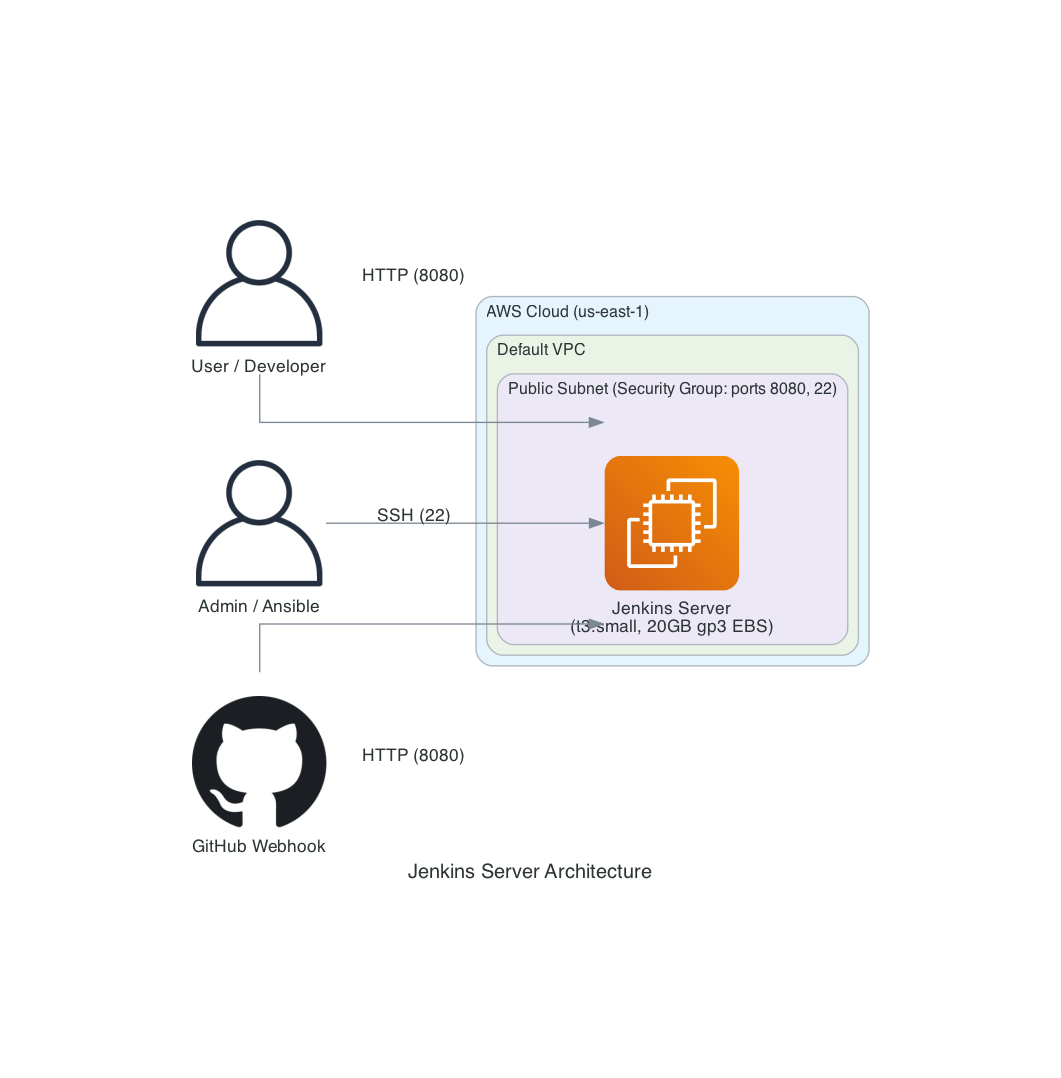
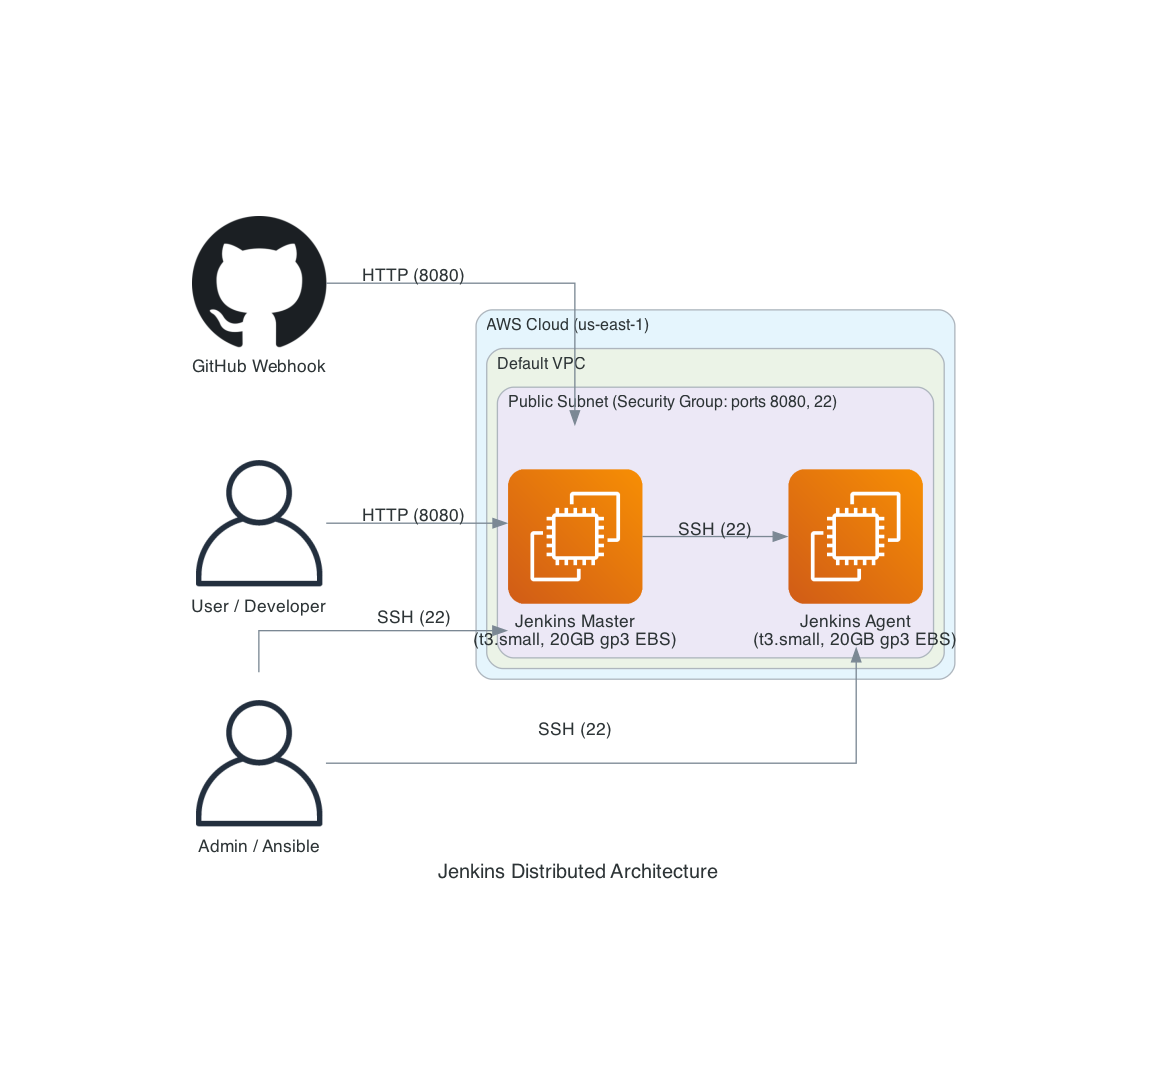
Update architecture diagram.

diff --git a/03-devops-project/diagram.py b/03-devops-project/diagram.py
@@ -5,7 +5,7 @@ from diagrams.onprem.vcs import Github
 from diagrams.onprem.client import User
 from diagrams.generic.os import Ubuntu
 
-with Diagram("Jenkins Server Architecture", show=False, filename="architecture", direction="LR", outformat="png"):
+with Diagram("Jenkins Distributed Architecture", show=False, filename="architecture", direction="LR", outformat="png"):
     user = User("User / Developer")
     admin = User("Admin / Ansible")
     github = Github("GitHub Webhook")
@@ -13,8 +13,10 @@ with Diagram("Jenkins Server Architecture", show=False, filename="architecture",
     with Cluster("AWS Cloud (us-east-1)"):
         with Cluster("Default VPC"):
             with Cluster("Public Subnet (Security Group: ports 8080, 22)"):
-                jenkins = EC2("Jenkins Server\n(t3.small, 20GB gp3 EBS)")
+                jenkins_master = EC2("Jenkins Master\n(t3.small, 20GB gp3 EBS)")
+                jenkins_agent = EC2("Jenkins Agent\n(t3.small, 20GB gp3 EBS)")
                 
-    user >> Edge(label="HTTP (8080)") >> jenkins
-    github >> Edge(label="HTTP (8080)") >> jenkins
-    admin >> Edge(label="SSH (22)") >> jenkins
+    user >> Edge(label="HTTP (8080)") >> jenkins_master
+    github >> Edge(label="HTTP (8080)") >> jenkins_master
+    admin >> Edge(label="SSH (22)") >> [jenkins_master, jenkins_agent]
+    jenkins_master >> Edge(label="SSH (22)") >> jenkins_agent